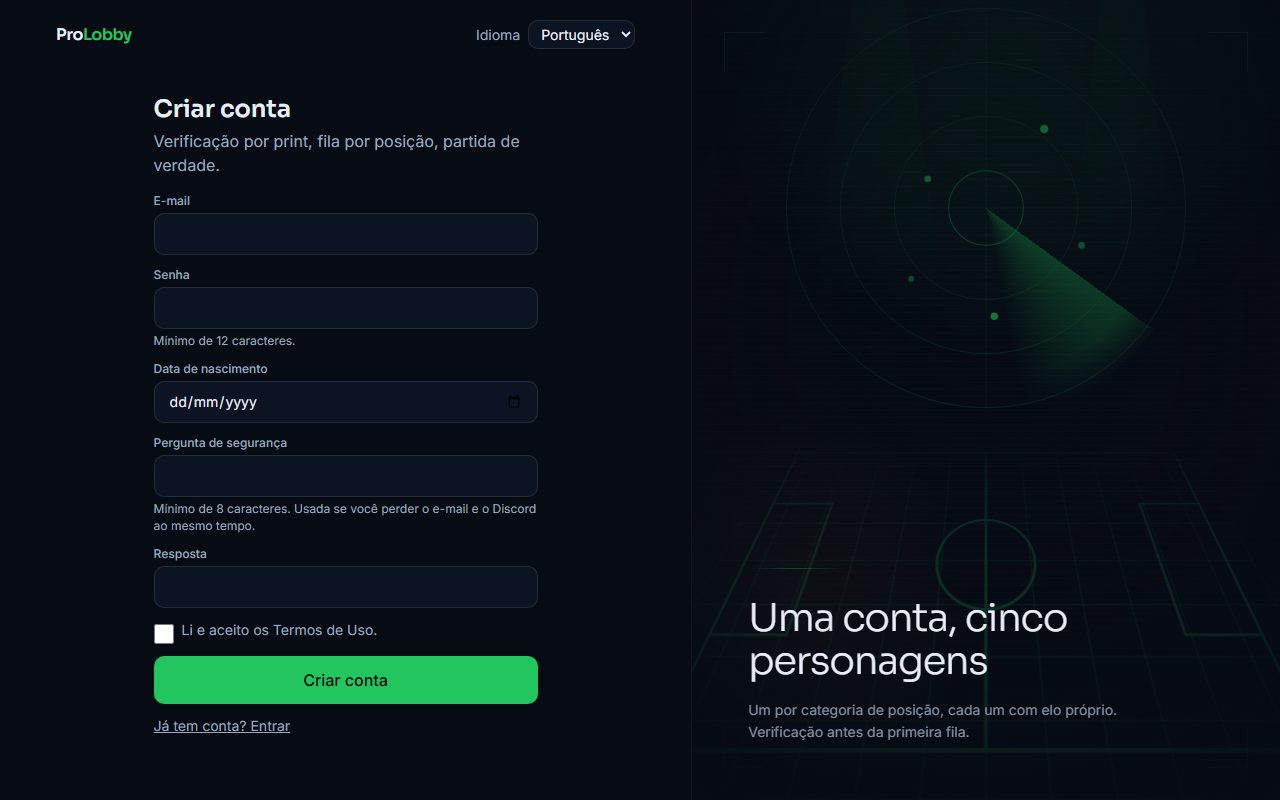
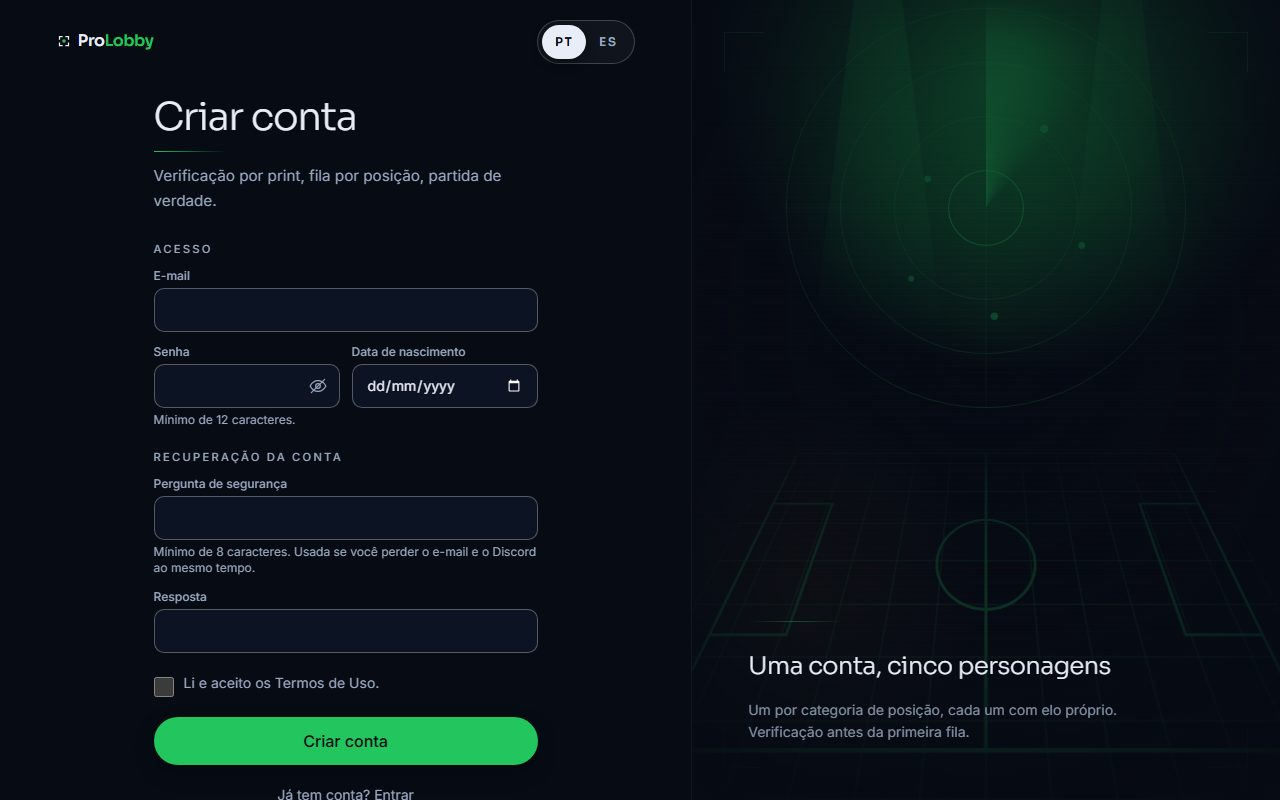
docs: readme com o estado atual e as telas novas
Status fase a fase até a 4.2 (fila, lobby, resultado e punição em dev),
o fluxo em seis etapas com Discord e lobby, e os prints refeitos da
landing de dia de jogo, cadastro, próximos passos, fila, elenco, clube
e Discord. Sai o print antigo do cadastro de personagem.

diff --git a/README.md b/README.md
@@ -17,45 +17,55 @@
 
 O jogador solo de Pro Clubs cadastra o personagem, prova que ele é dele com um print do jogo, entra
 na fila pela posição que joga e é pareado com outros jogadores verificados. A partida acontece dentro
-do EA FC. A plataforma organiza, verifica e mede.
+do EA FC; a ProLobby monta o jogo, coordena pelo Discord e mede o que aconteceu.
 
 ## Como funciona
 
 | Etapa | O que acontece |
 |---|---|
-| **1. Personagem** | Até 5 por conta, um por posição. O print da tela `Archetypes` prova a posse: o arquétipo aberto e o gamertag embaixo do card |
-| **2. Fila** | Entrada individual por posição: goleiro, zaga, meio, ponta ou ataque |
-| **3. Matchmaking** | Dois lados equilibrados por elo, posição contra posição. A IA do jogo completa as vagas vazias |
-| **4. Lobby** | Um capitão por lado, pela reputação. O bot cria os canais de voz no Discord |
-| **5. Resultado** | Print da tela final confirma o placar. Elo e reputação atualizam |
+| **1. Conta** | E-mail verificado, pergunta de segurança pra recuperar sem e-mail, aceite dos [Termos](https://github.com/ljborgess/ProLobby.com/blob/dev/docs/produto/04-governanca/03-termos.md) |
+| **2. Personagem** | Até 5 por conta, um por posição. O print da tela `Archetypes` prova a posse; a moderação confere até o OCR entrar |
+| **3. Discord** | Vínculo por OAuth2. Sair do servidor bloqueia a fila até voltar |
+| **4. Fila** | Entrada individual por posição. Dois lados equilibrados por elo; a IA do jogo completa as vagas vazias. A fila pausa quando não dá pra coordenar mais lobbies |
+| **5. Lobby** | Confirmação em 30 s, capitão por reputação (quem declarou clube com vaga), votação de formação e canais de voz criados pelo bot |
+| **6. Resultado** | Report do placar com print e confirmação cruzada. Disputa, contestação, avaliação entre companheiros e denúncia. Elo e reputação atualizam |
 
 As regras completas, com o motivo de cada uma, estão no [dossiê de produto](docs/produto/README.md).
 
 ## As telas
 
-Capturas do ambiente de desenvolvimento, com contas de teste. Toda a ilustração é desenhada em SVG e
+Capturas do ambiente de desenvolvimento, com contas de teste. Toda ilustração é desenhada em SVG e
 CSS: nada de print ou arte do EA FC.
 
 | | |
 |---|---|
-| ![Início](docs/assets/telas/01-landing-hero.jpg) | ![Próximos passos](docs/assets/telas/06-conta.jpg) |
-| **Início** | **Próximos passos**: o que falta pra entrar na fila |
-| ![Elenco](docs/assets/telas/08-elenco.jpg) | ![Cadastro do personagem](docs/assets/telas/09-cadastro-personagem.jpg) |
-| **Elenco**: as cinco posições no campo | **Cadastro do personagem**, a partir da vaga |
-| ![Criar conta](docs/assets/telas/04-cadastro.jpg) | ![Discord](docs/assets/telas/07-discord.jpg) |
-| **Criar conta** | **Vínculo com o Discord** |
+| ![Início](docs/assets/telas/01-landing-hero.jpg) | ![Criar conta](docs/assets/telas/04-cadastro.jpg) |
+| **Início**: a landing como transmissão de dia de jogo | **Criar conta**, com os Termos abrindo num popup |
+| ![Próximos passos](docs/assets/telas/06-conta.jpg) | ![Fila](docs/assets/telas/10-fila.jpg) |
+| **Próximos passos**: o que falta pra entrar na fila | **Fila**: o vestiário, uma camisa por posição |
+| ![Elenco](docs/assets/telas/08-elenco.jpg) | ![Clube](docs/assets/telas/11-clube.jpg) |
+| **Elenco**: as cinco posições no campo | **Clube**: uniforme e escudo de quem pode ser capitão |
+| ![Discord](docs/assets/telas/07-discord.jpg) | |
+| **Vínculo com o Discord** | |
 
 ## Status
 
 | Fase | Estado |
 |---|---|
-| 2.1 Conta e autenticação | Em `dev` |
-| 2.2 Personagem verificado por print | Em `dev`. A moderação confere cada print até o OCR entrar ([#199](https://github.com/ljborgess/ProLobby.com/issues/199)) |
-| 2.3 Vínculo com o Discord | Em `dev` |
-| 2.4 Elo e reputação | Em construção ([#53](https://github.com/ljborgess/ProLobby.com/issues/53)) |
-| 2.5 Fila e matchmaking | A seguir |
+| 1 CI, processo de PR, servidor Discord | Concluída |
+| 2.1 Conta e autenticação | Concluída |
+| 2.2 Personagem verificado por print | Em `dev`, menos o OCR ([#199](https://github.com/ljborgess/ProLobby.com/issues/199)), que espera o piloto ([#191](https://github.com/ljborgess/ProLobby.com/issues/191)) |
+| 2.3 Vínculo com o Discord | Concluída |
+| 2.4 Elo e reputação | Em `dev`, com a partida finalizada virando evento de elo |
+| 2.5 Fila e matchmaking | Em `dev`: entrar e sair, montador, confirmação de 30 s, pausa da fila, clube declarado com uniforme e escudo |
+| 3 Fechamento do lobby | Em `dev`: capitão, convite, formação, desistência do capitão, canais de voz do bot |
+| 4.1 Report de resultado | Em `dev`: report com print, confirmação cruzada, contestação, expiração por falta de report |
+| 4.2 Disputa e escada de punição | Em `dev`: disputa, avaliação por pares, denúncia, escada de punição, apelação |
+| 4.3 Perfil público e ranking | A seguir |
 
-Roadmap completo no [PRD Mestre](https://github.com/ljborgess/ProLobby.com/issues/64).
+Os Termos de Uso existem como rascunho em revisão jurídica, em `/termos`. A moderação fica fora do
+menu e responde 404 pra quem não é moderador. Roadmap completo no
+[PRD Mestre](https://github.com/ljborgess/ProLobby.com/issues/64).
 
 ## Arquitetura
 
